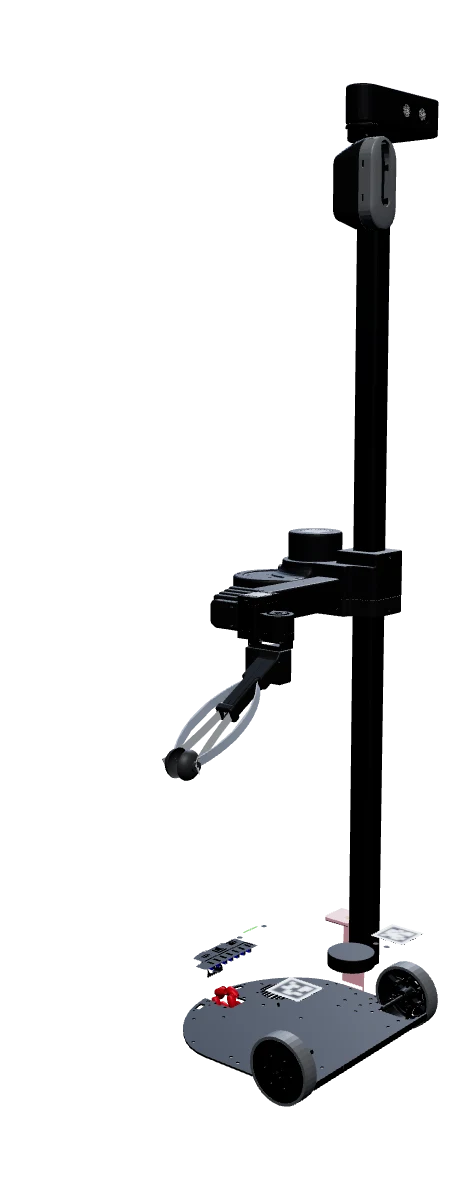
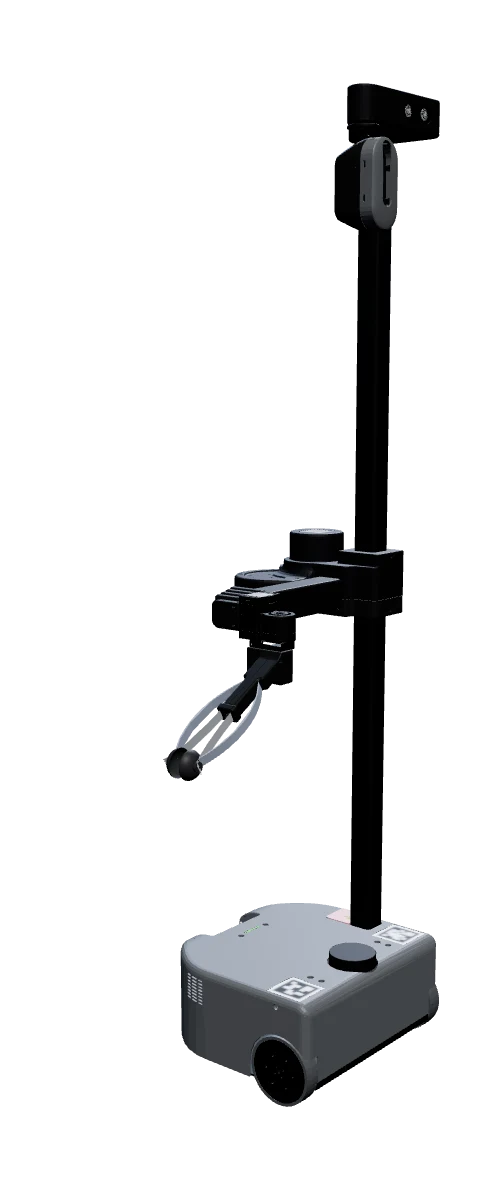
Refresh thumbs and unhide D435i after raw-mesh remap
Re-render the four remapped cards so the previously skipped visual
meshes show up, write the new bounding boxes back, and show
realsense_d435i again now that the camera body loads.

diff --git a/data/visibility.md b/data/visibility.md
@@ -254,4 +254,4 @@ human readers.
 
 ## 传感器 Sensor · 1
 
-- [ ] `realsense_d435i` **Realsense D435i** — Intel RealSense — [google-deepmind/mujoco_menagerie](https://github.com/google-deepmind/mujoco_menagerie/tree/da76818e269b82289eba39808e2fb91d679d6994/realsense_d435i)
+- [x] `realsense_d435i` **Realsense D435i** — Intel RealSense — [google-deepmind/mujoco_menagerie](https://github.com/google-deepmind/mujoco_menagerie/tree/da76818e269b82289eba39808e2fb91d679d6994/realsense_d435i)
